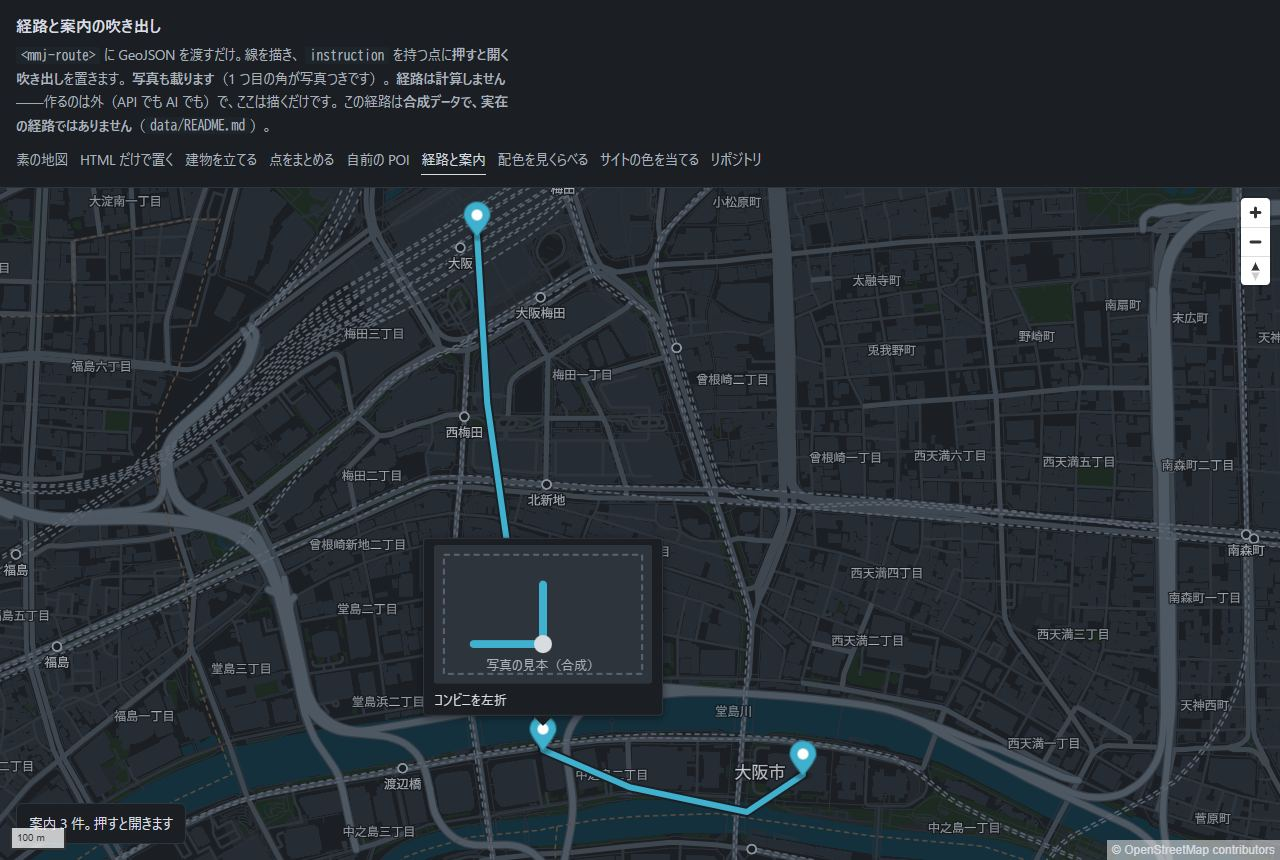
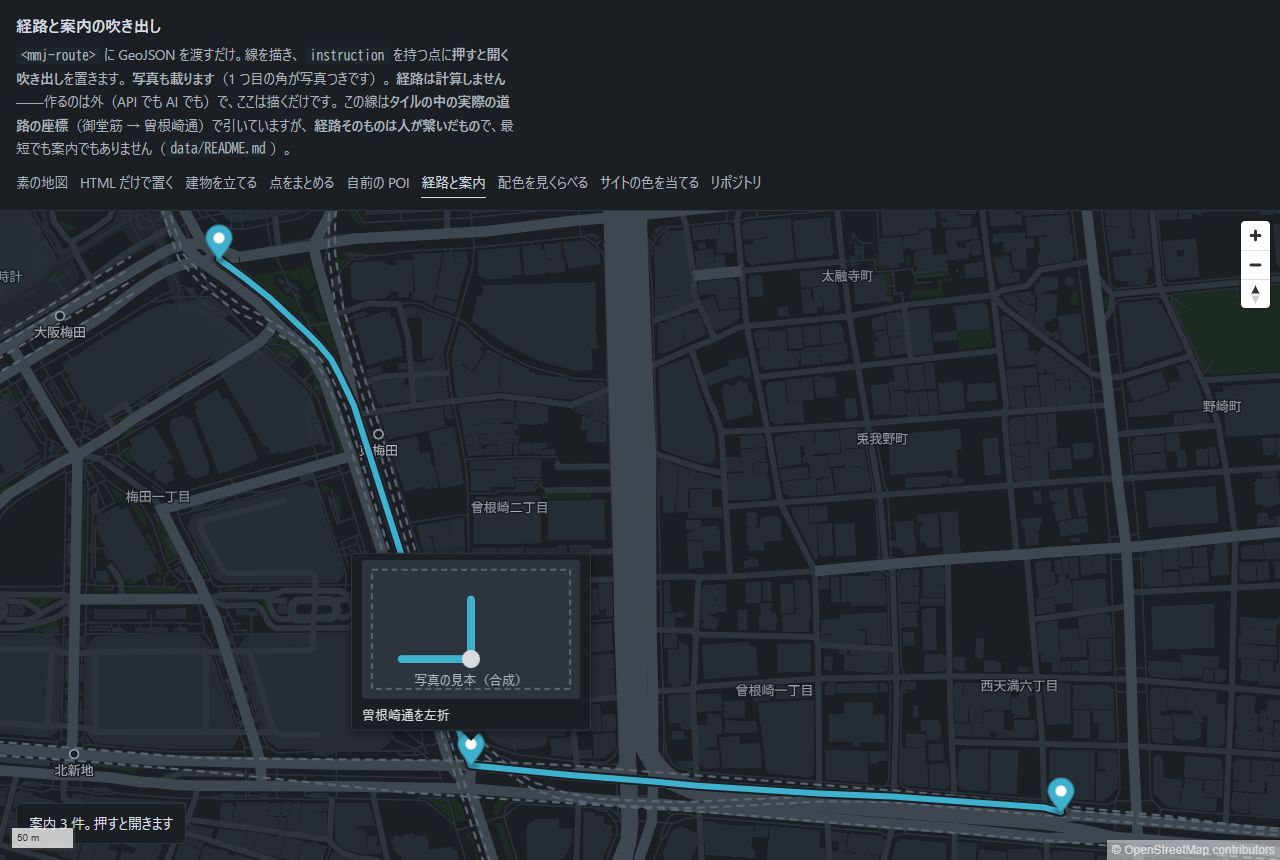
fix(demo): 経路の線を、実際の道路の座標で引き直す
人の指摘（2026-09-21）:
「あの、道を無視して、線がひかれているのがきになります」
（画面に赤線で「道はこう通っている」を描いて渡された）

**部品は正しく、置いたデータが嘘だった。**
デモの経路はこちらが手で書いた折れ線で、**建物と川を突っ切っていた**。
`<mmj-route>` が渡されたものを忠実に描くほど、**嘘のデータは嘘に見える**。

## 直し方

タイルの中の**実際の道路の座標**を使う。そのために 2 つ足した。

1. **MVT デコーダが幾何も読む。**それまでは「何が何件あるか」だけで座標を捨てていた
2. `tile:inspect -- … --geo [--name=御堂筋]` で GeoJSON として取り出せる

    pnpm tile:inspect -- dist/tiles/demo.pmtiles 15 28717 13012 --layer=roads --geo --name=御堂筋
    pnpm tile:inspect -- dist/tiles/demo.pmtiles 15 28717 13013 --layer=roads --geo --name=曽根崎通

いまのデモは **御堂筋（南へ）→ 曽根崎通（東へ）の約 896 m / 18 点**。
曲がる地点は交差点の座標そのもの（135.500591, 34.698311）で、
吹き出しも「曽根崎通を左折」に直した。**同じ手順で再現できる**（data/README.md）。

**ただし繋いだのは人。**最短経路でも歩行者に許された道でもない。
**経路の計算は MMJ の仕事ではない**（D-003 / D-022）という線は動かしていない。

## デコーダ側

幾何は `(count << 3) | id` のコマンド列で、パラメータは差分の zigzag。
**MoveTo が来るたびに別の線として区切る**（繋げると通っていない場所を通る線ができる）。

**知らないコマンドでは投げず、読めたぶんで止める。**
既存のテストは幾何を `0x0c`（存在しないコマンド）で埋めており、
そこで投げると「幾何を読まない」時代の検査が全部落ちる。

## 教訓

実物を見るとき、**部品の挙動だけでなく置いたデータも疑う。**
こちらは「線が出た」ところまでしか見ていなかった。

## テスト

幾何の読み出し 5 件（RED を見てから GREEN）。tile-inspect は 18 件。

diff --git a/tools/tile-inspect/src/mvt.ts b/tools/tile-inspect/src/mvt.ts
@@ -4,8 +4,9 @@
  * 依存を足していない。**数えるためだけに geojson-vt / vector-tile を入れない**
  * （形式は固まっていて、読むだけなら短い）。
  *
- * 幾何は読まない。**この道具の目的は「何が何件あるか」**で、
- * 形を描くことではない（描くのは MapLibre の仕事）。
+ * 幾何も読む。**描くのは MapLibre の仕事**のままで、ここは中の座標を見るためのもの。
+ * 「何が何件あるか」だけでは、**デモに置く経路を実際の道の上に乗せられない**
+ * （2026-09-21・人の指摘「道を無視して、線がひかれているのがきになります」）。
  */
 import { gunzipSync } from "node:zlib";
 
@@ -15,6 +16,14 @@ export interface Feature {
   readonly props: Record<string, PropertyValue>;
   /** 1=Point, 2=LineString, 3=Polygon */
   readonly type: number;
+  /**
+   * タイル座標の線／環。`[[ [x,y], [x,y], … ], …]`。
+   * 0 〜 `Layer.extent` の範囲で、**経度緯度ではない**（変換は呼ぶ側）。
+   *
+   * **幾何が無ければ空配列。**読めないコマンドが来たらそこで止め、
+   * 読めたぶんだけ返す（投げない）。**無いことと読めないことを混ぜない。**
+   */
+  readonly geometry: number[][][];
 }
 
 export interface Layer {
@@ -98,12 +107,77 @@ function decodeValue(buf: Buffer): PropertyValue | null {
   return null;
 }
 
+/**
+ * 幾何を読む。**投げない。**
+ *
+ * コマンドは `(count << 3) | id` の 1 語で、`id` は MoveTo=1 / LineTo=2 / ClosePath=7。
+ * パラメータは前の点からの差分を zigzag で符号化したもの。
+ *
+ * **MoveTo が来るたびに別の線として区切る。**1 つの地物に線が何本も入ることがあり、
+ * 繋げてしまうと**通っていない場所を通る線**ができる。
+ *
+ * 知らないコマンドではそこで止めて、読めたぶんを返す。
+ * 既存のテストは幾何を `0x0c`（存在しないコマンド）で埋めており、
+ * **そこで投げると「幾何を読まない」時代の検査が全部落ちる。**
+ */
+function decodeGeometry(buf: Buffer): number[][][] {
+  const parts: number[][][] = [];
+  /** いま組み立て中の線 */
+  let current: number[][] = [];
+  let x = 0;
+  let y = 0;
+
+  const c: Cursor = { buf, pos: 0 };
+  while (c.pos < buf.length) {
+    const header = varint(c);
+    const id = header & 0x7;
+    const count = header >> 3;
+
+    if (id === 7) {
+      // ClosePath。**座標は増えない**（環を閉じるだけ）
+      continue;
+    }
+    if (id !== 1 && id !== 2) break; // 知らないコマンド。読めたぶんで止める
+    if (count === 0) continue;
+
+    for (let i = 0; i < count; i += 1) {
+      if (c.pos >= buf.length) return flush(parts, current);
+      const dx = zigzag(varint(c));
+      if (c.pos >= buf.length) return flush(parts, current);
+      const dy = zigzag(varint(c));
+      x += dx;
+      y += dy;
+
+      // MoveTo は新しい線の始まり。**前の線をここで閉じる**
+      if (id === 1) {
+        if (current.length > 0) parts.push(current);
+        current = [];
+      }
+      current.push([x, y]);
+    }
+  }
+  return flush(parts, current);
+}
+
+function flush(parts: number[][][], current: number[][]): number[][][] {
+  if (current.length > 0) parts.push(current);
+  return parts;
+}
+
+/** zigzag を元の符号付き整数に戻す */
+function zigzag(raw: number): number {
+  return (raw >>> 1) ^ -(raw & 1);
+}
+
 function decodeFeature(buf: Buffer, keys: string[], values: PropertyValue[]): Feature {
   const props: Record<string, PropertyValue> = {};
   let type = 0;
+  let geometry: number[][][] = [];
 
   for (const { tag, wire, c } of fields(buf)) {
-    if (tag === 2 && wire === 2) {
+    if (tag === 4 && wire === 2) {
+      geometry = decodeGeometry(bytes(c));
+    } else if (tag === 2 && wire === 2) {
       const pairs = bytes(c);
       const pc: Cursor = { buf: pairs, pos: 0 };
       while (pc.pos < pairs.length) {
@@ -114,7 +188,7 @@ function decodeFeature(buf: Buffer, keys: string[], values: PropertyValue[]): Fe
     } else if (tag === 3) type = varint(c);
     else skip(c, wire);
   }
-  return { props, type };
+  return { props, type, geometry };
 }
 
 function decodeLayer(buf: Buffer): Layer {

diff --git a/tools/tile-inspect/test/mvt.test.ts b/tools/tile-inspect/test/mvt.test.ts
@@ -118,3 +118,77 @@ describe("visibleAt", () => {
     expect(visibleAt(noMinZoom, 5)).toHaveLength(1);
   });
 });
+
+/**
+ * **座標も読む。**
+ *
+ * 「何が何件あるか」だけでは、**デモに置く経路を実際の道の上に乗せられない**。
+ * 手で折れ線を書くと道を無視した線になり、地図として嘘になる
+ * （2026-09-21・人の指摘「道を無視して、線がひかれているのがきになります」）。
+ *
+ * 描くのは MapLibre の仕事のままで、ここは**中の座標を見る**ための読み出し。
+ */
+/** MVT のコマンド: MoveTo=1 / LineTo=2 / ClosePath=7。パラメータは zigzag */
+const zig = (n: number) => (n << 1) ^ (n >> 31);
+const cmd = (id: number, count: number) => (count << 3) | id;
+const geom = (...values: number[]) => Buffer.from(values.map((v) => v & 0x7f));
+
+describe("幾何を読む", () => {
+
+  it("線の座標を返す（MoveTo ＋ LineTo）", () => {
+    // MoveTo 1 個 (5,7) → LineTo 2 個 (+3,+0) (+0,+4)
+    const raw = geom(cmd(1, 1), zig(5), zig(7), cmd(2, 2), zig(3), zig(0), zig(0), zig(4));
+    const buf = encodeTile([
+      { name: "roads", features: [{ props: { kind: "minor_road" }, type: 2, geometryRaw: raw }] },
+    ]);
+    expect(decodeTile(buf)[0]?.features[0]?.geometry).toEqual([
+      [
+        [5, 7],
+        [8, 7],
+        [8, 11],
+      ],
+    ]);
+  });
+
+  it("負の差分も読む（zigzag）", () => {
+    const raw = geom(cmd(1, 1), zig(10), zig(10), cmd(2, 1), zig(-4), zig(-6));
+    const buf = encodeTile([
+      { name: "roads", features: [{ props: { kind: "x" }, type: 2, geometryRaw: raw }] },
+    ]);
+    expect(decodeTile(buf)[0]?.features[0]?.geometry).toEqual([
+      [
+        [10, 10],
+        [6, 4],
+      ],
+    ]);
+  });
+
+  it("**MoveTo が来るたびに別の線になる**（1 地物に線が何本も入る）", () => {
+    const raw = geom(cmd(1, 1), zig(0), zig(0), cmd(2, 1), zig(1), zig(0), cmd(1, 1), zig(5), zig(5));
+    const buf = encodeTile([
+      { name: "roads", features: [{ props: { kind: "x" }, type: 2, geometryRaw: raw }] },
+    ]);
+    expect(decodeTile(buf)[0]?.features[0]?.geometry).toEqual([
+      [
+        [0, 0],
+        [1, 0],
+      ],
+      [[6, 5]],
+    ]);
+  });
+
+  it("**読めないコマンドが来たら、そこで止めて読めたぶんを返す**（投げない）", () => {
+    // 0x0c は「コマンド 4」で存在しない。既存のテストがこの埋め方をしている
+    const raw = Buffer.from([cmd(1, 1), zig(2), zig(3), 0x0c, 0x0c]);
+    const buf = encodeTile([
+      { name: "roads", features: [{ props: { kind: "x" }, type: 2, geometryRaw: raw }] },
+    ]);
+    expect(decodeTile(buf)[0]?.features[0]?.geometry).toEqual([[[2, 3]]]);
+    expect(decodeTile(buf)[0]?.unreadable).toBe(0);
+  });
+
+  it("幾何が無ければ空（**無いことと読めないことを混ぜない**）", () => {
+    const buf = encodeTile([{ name: "roads", features: [{ props: { kind: "x" }, type: 2 }] }]);
+    expect(decodeTile(buf)[0]?.features[0]?.geometry).toEqual([]);
+  });
+});

diff --git a/tools/tile-inspect/src/cli.ts b/tools/tile-inspect/src/cli.ts
@@ -105,6 +105,63 @@ const wantLayer = flag("layer");
 const by = flag("by") ?? "kind";
 const at = flag("at");
 
+/** 経度緯度を 6 桁に丸める。**元のタイル座標より細かい桁は意味が無い** */
+function round(lon: number, lat: number): [number, number] {
+  return [Number(lon.toFixed(6)), Number(lat.toFixed(6))];
+}
+
+/**
+ * 幾何を GeoJSON で出す。**数える道具に、座標を見る出口を付けたもの。**
+ *
+ * デモに置く経路を**実際の道の上に乗せる**ために要る。
+ * 手で折れ線を書くと道を無視した線になり、地図として嘘になる
+ * （2026-09-21・人の指摘「道を無視して、線がひかれているのがきになります」）。
+ *
+ *   pnpm tile:inspect -- dist/tiles/demo.pmtiles 15 28717 13012 --layer=roads --geo --name=御堂筋
+ */
+if (has("geo")) {
+  const wantName = flag("name");
+  const n = 2 ** Number(z);
+  const features: unknown[] = [];
+
+  for (const layer of layers) {
+    if (wantLayer !== undefined && layer.name !== wantLayer) continue;
+
+    const toLon = (px: number) => ((Number(x) + px / layer.extent) / n) * 360 - 180;
+    const toLat = (py: number) => {
+      const t = Math.PI - 2 * Math.PI * ((Number(y) + py / layer.extent) / n);
+      return (180 / Math.PI) * Math.atan(0.5 * (Math.exp(t) - Math.exp(-t)));
+    };
+
+    for (const feature of layer.features) {
+      const name = String(feature.props["name"] ?? "");
+      if (wantName !== undefined && !name.includes(wantName)) continue;
+      for (const line of feature.geometry) {
+        features.push({
+          type: "Feature",
+          properties: { ...feature.props, "mmj:layer": layer.name },
+          geometry: {
+            // 点が 1 つだけの線は Point として出す（MVT では同じ形で入っている）
+            type: line.length === 1 ? "Point" : "LineString",
+            coordinates:
+              line.length === 1
+                ? round(toLon(line[0]![0]!), toLat(line[0]![1]!))
+                : line.map((p) => round(toLon(p[0]!), toLat(p[1]!))),
+          },
+        });
+      }
+    }
+  }
+
+  // **件数を stderr へ出す。**0 件のとき、空の FeatureCollection だけ見ても
+  // 「そういうデータ」なのか絞り込みの間違いなのか分からない
+  console.error(
+    `幾何 ${features.length} 件（--layer=${wantLayer ?? "全部"} --name=${wantName ?? "(絞らない)"}）`,
+  );
+  console.log(JSON.stringify({ type: "FeatureCollection", features }));
+  process.exit(0);
+}
+
 for (const layer of layers) {
   if (wantLayer !== undefined && layer.name !== wantLayer) continue;
 

diff --git a/tools/tile-inspect/test/encode.ts b/tools/tile-inspect/test/encode.ts
@@ -49,6 +49,8 @@ export interface TestFeature {
    * ここを出さないテストは、**末尾の読み飛ばしがずれていても通る**（実際に通した）。
    */
   readonly geometryBytes?: number;
+  /** 幾何の中身そのもの。**座標を読めることを確かめるときに使う** */
+  readonly geometryRaw?: Buffer;
   /** 知らないフィールド（上流が足したもの）を 1 つ混ぜる */
   readonly unknownField?: { readonly tag: number; readonly value: number };
 }
@@ -78,7 +80,9 @@ function encodeLayer(layer: TestLayer): Buffer {
     if (feature.unknownField !== undefined) {
       parts.push(uint(feature.unknownField.tag, feature.unknownField.value));
     }
-    if (feature.geometryBytes !== undefined) {
+    if (feature.geometryRaw !== undefined) {
+      parts.push(delimited(4, feature.geometryRaw));
+    } else if (feature.geometryBytes !== undefined) {
       // **0 埋めにしない。**0x00 は「tag 0 / wire 0」として無害に読み飛ばせてしまうため、
       // 読み飛ばしが 1 バイトずれていてもテストが通る（実際に通してしまった）。
       // 0x0C は「tag 1 / wire 4」で、**ずれて読まれたら必ず例外になる**。

diff --git a/apps/demo/route.html b/apps/demo/route.html
@@ -21,7 +21,8 @@
     <code>instruction</code> を持つ点に<strong>押すと開く吹き出し</strong>を置きます。
     <strong>写真も載ります</strong>（1 つ目の角が写真つきです）。
     <strong>経路は計算しません</strong>——作るのは外（API でも AI でも）で、ここは描くだけです。
-    この経路は<strong>合成データで、実在の経路ではありません</strong>（<code>data/README.md</code>）。
+    この線は<strong>タイルの中の実際の道路の座標</strong>（御堂筋 → 曽根崎通）で引いていますが、
+    <strong>経路そのものは人が繋いだもの</strong>で、最短でも案内でもありません（<code>data/README.md</code>）。
   </p>
   <nav class="site-nav" aria-label="デモの一覧">
     <a href="./index.html">素の地図</a>

diff --git a/.claude/decisions.md b/.claude/decisions.md
@@ -499,9 +499,26 @@
 - **これを止めるべき条件**: **経路を計算してほしいという要望が繰り返し出たとき。**
   そのときに考えるのは「MMJ が計算する」ではなく、
   **「どのルーティング API と繋ぐ例を配るか」**のほう。D-003 を先に読むこと。
-- **実行状況**: 部品・デモ（`apps/demo/route.html`）・説明書・合成データまで。
+- **実行状況**: 部品・デモ（`apps/demo/route.html`）・説明書・データまで。
   実物で確認済み（線・案内 3 件・写真つき吹き出し・`<mmj-marker image>`）。
   **案内の見た目は既定の目印のまま**（番号も矢印も付けていない）。そこは `DESIGN.md` の領域。
+
+### デモの線が道を無視していた（同日・人の指摘で判明）
+
+> 「あの、道を無視して、線がひかれているのがきになります」（2026-09-21）
+
+**部品は正しく、置いたデータが嘘だった。**最初の版はこちらが手で書いた折れ線で、
+建物と川を突っ切っていた。**部品が渡されたものを忠実に描くほど、嘘のデータは嘘に見える。**
+
+直し方として、**タイルの中の実際の道路の座標を使う**ことにした。
+そのために `tile:inspect` に `--geo` を足し、MVT デコーダが幾何も読むようにした
+（それまでは「何が何件あるか」だけで、座標を捨てていた）。
+
+いまのデモは 御堂筋（南へ）→ 曽根崎通（東へ）の約 896 m で、同じ手順で再現できる。
+**ただし繋いだのは人**で、最短経路でも歩行者に許された道でもない。そこは変わらない。
+
+**教訓**: 実物を見るとき、**部品の挙動だけでなく置いたデータも疑う。**
+このときこちらは「線が出た」ところまでしか見ていなかった。
 
 ---
 

diff --git a/.claude/project-status.md b/.claude/project-status.md
@@ -213,6 +213,9 @@ pnpm palette:mcp        # MCP（stdio）。道具 4 つ
 - **`setHTML` を使っていない。**`createElement` と `textContent` だけで組む（baseline §21）。
   `javascript:` と `data:` の画像は落とす
 - デモ `apps/demo/route.html`。実物 `docs/screenshots/2026-09-21-route-steps.jpg`
+- **デモの線は、タイルの中の実際の道路の座標**（御堂筋 → 曽根崎通・約 896 m）。
+  最初の版は手書きの折れ線で**道を無視していた**（人の指摘で判明）。
+  座標を取り出すため `tile:inspect` に `--geo` を足し、MVT デコーダが幾何も読むようにした
 - **案内の見た目は既定の目印のまま**（番号も矢印も無い）。そこは `DESIGN.md` の領域
 
 ## 未完了の作業
